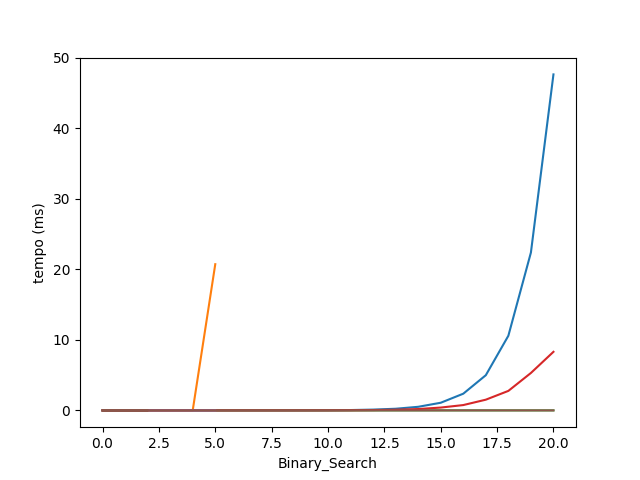
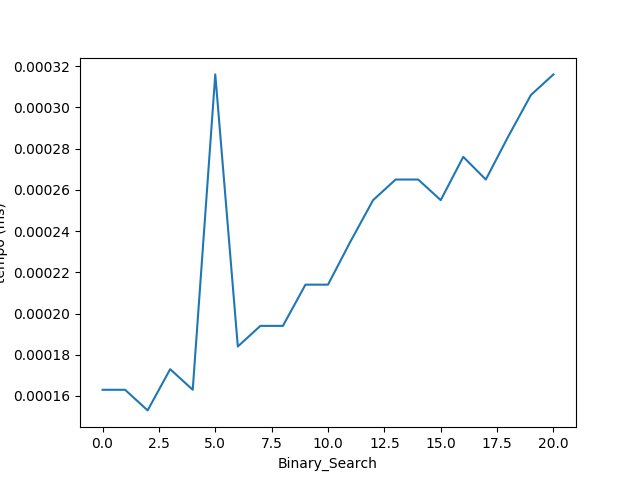
Fix charts

diff --git a/trabalhos/analise/charts.py b/trabalhos/analise/charts.py
@@ -17,8 +17,9 @@ if __name__ == '__main__':
     for csvfile in glob.glob('csv/*.csv'):
         with open(csvfile) as csvf:
             title = csvfile.split('/')[1].split('.')[0]
-            data = [(pow(row[0]), float(row[1])) for row in csv.reader(csvf)]
+            data = ((pow(row[0]), float(row[1])) for row in csv.reader(csvf))
             plt.plot(*zip(*data))
             plt.ylabel('tempo (ms)')
             plt.xlabel(title.title())
             plt.savefig('charts/{}.linux.png'.format(title))
+            plt.gcf().clf()
